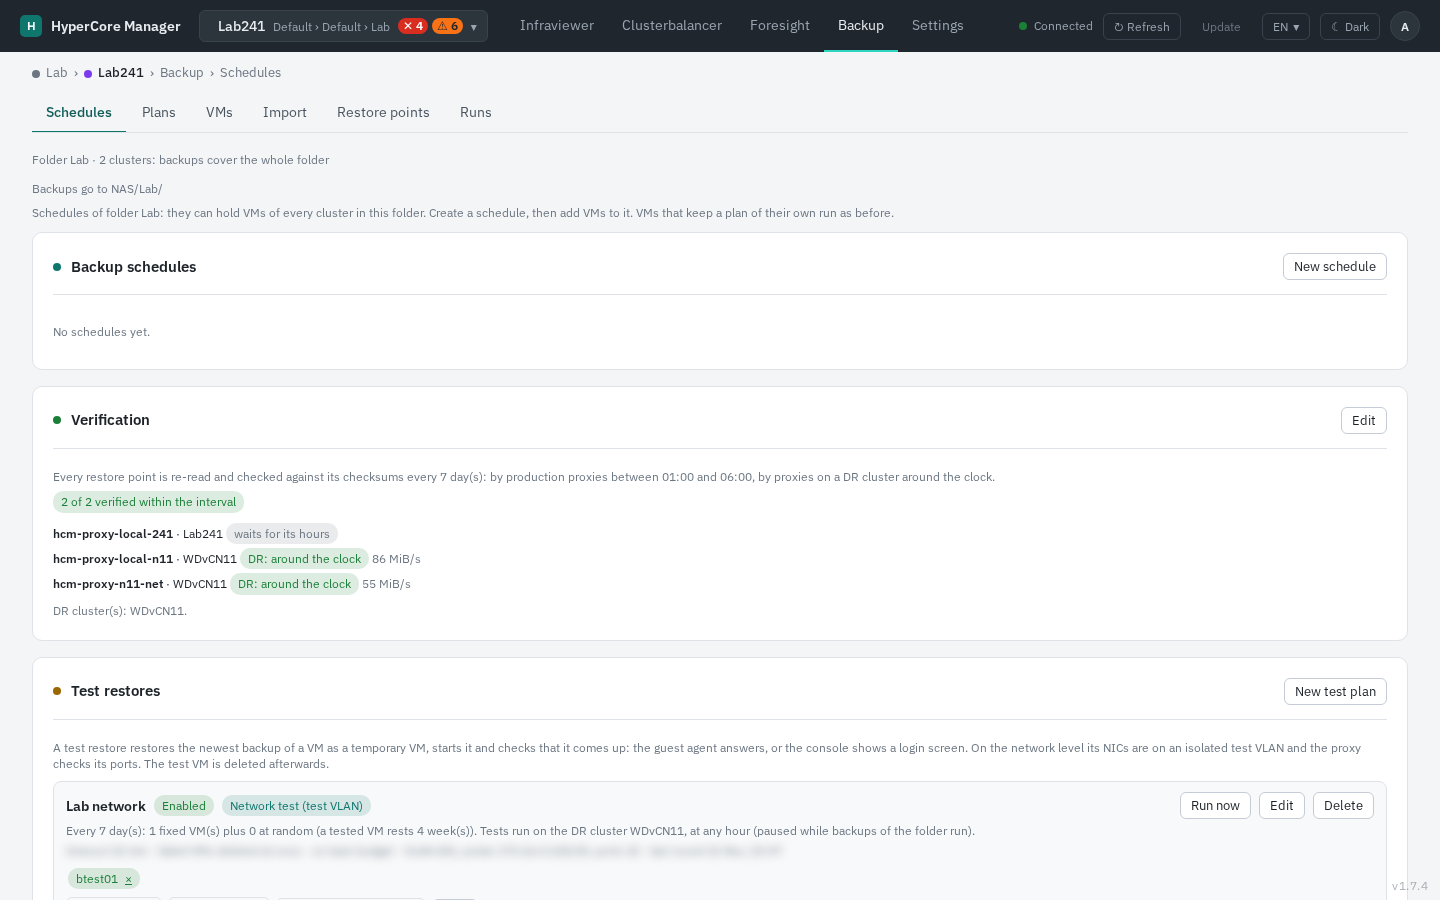
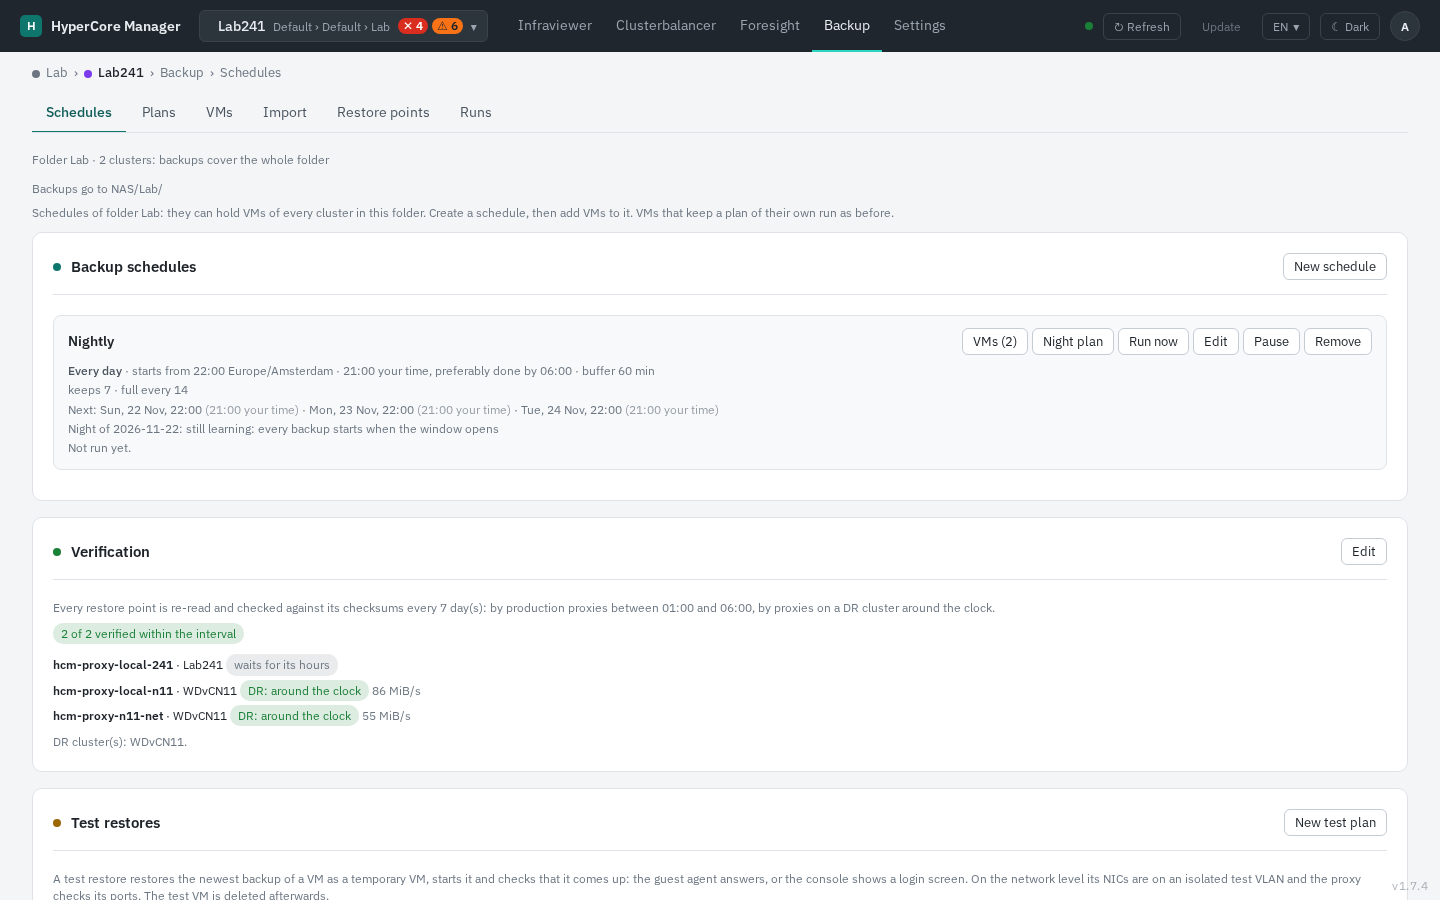
docs: every manual and README screenshot in the new look (light), incl. Clusterbalancer forecast log, schedules and night plan; two tunable labels in normal case

diff --git a/dashboard/static/index.html b/dashboard/static/index.html
@@ -3583,13 +3583,13 @@ const CTRL_GROUPS = [
       { key: 'CPU_UPPER_THRESHOLD_PERCENT',  label: 'CPU threshold',  type: 'range', min:10,  max:100, step:0.5, unit:'%'   },
       { key: 'RAM_UPPER_THRESHOLD_PERCENT',  label: 'RAM threshold',  type: 'range', min:10,  max:100, step:0.5, unit:'%'   },
       { key: 'RAM_LIMIT_PERCENT',            label: 'RAM hard limit', type: 'range', min:50,  max:100, step:0.5, unit:'%'   },
-      { key: 'MAX_VCPU_RATIO',               label: 'vCPU RATIO',     type: 'range', min:0.5, max:8.0, step:0.1, unit:'×'   },
+      { key: 'MAX_VCPU_RATIO',               label: 'vCPU ratio',     type: 'range', min:0.5, max:8.0, step:0.1, unit:'×'   },
       { key: 'SAMPLE_INTERVAL_SECONDS',      label: 'Sample interval',type: 'range', min:10,  max:300, step:5,   unit:'s'   },
       { key: 'AVG_WINDOW_MINUTES',           label: 'Avg window',     type: 'range', min:1,   max:30,  step:1,   unit:'min' },
       { key: 'VM_MOVE_COOLDOWN_MINUTES',     label: 'VM cooldown',    type: 'range', min:0,   max:120, step:1,   unit:'min' },
       { key: 'MIGRATION_COOLDOWN_MINUTES',   label: 'Global cooldown',type: 'range', min:0,   max:60,  step:1,   unit:'min' },
       { key: 'CPU_TARGET_TOLERANCE_PERCENT',  label: 'CPU tolerance',  type: 'range', min:1,   max:20,  step:0.5, unit:'%'   },
-      { key: 'EXCLUDE_NODE_IPS',             label: 'EXCLUDE NODE IPs', type: 'text', hint: 'Comma-separated IPs', wide: true },
+      { key: 'EXCLUDE_NODE_IPS',             label: 'Exclude node IPs', type: 'text', hint: 'Comma-separated IPs', wide: true },
     ]
   },
   {

diff --git a/docs/CHANGELOG.md b/docs/CHANGELOG.md
@@ -26,9 +26,8 @@ All notable changes to this project are documented here. The format follows
 
 ### Documentation
 - Getting around describes the top bar, the cluster switcher and light/dark; Getting started, the manual and the
-  README follow the new navigation. Getting started's screenshots and 25 manual screenshots retaken in the new
-  look. (The Forecast log and the night plan still show the previous look: they need the balancer running and a
-  backup schedule with VMs.)
+  README follow the new navigation. Every screenshot in the manual and the README retaken in the new look (light
+  theme), Foresight and the Clusterbalancer with live analysis data.
 
 ## [1.7.4]
 
